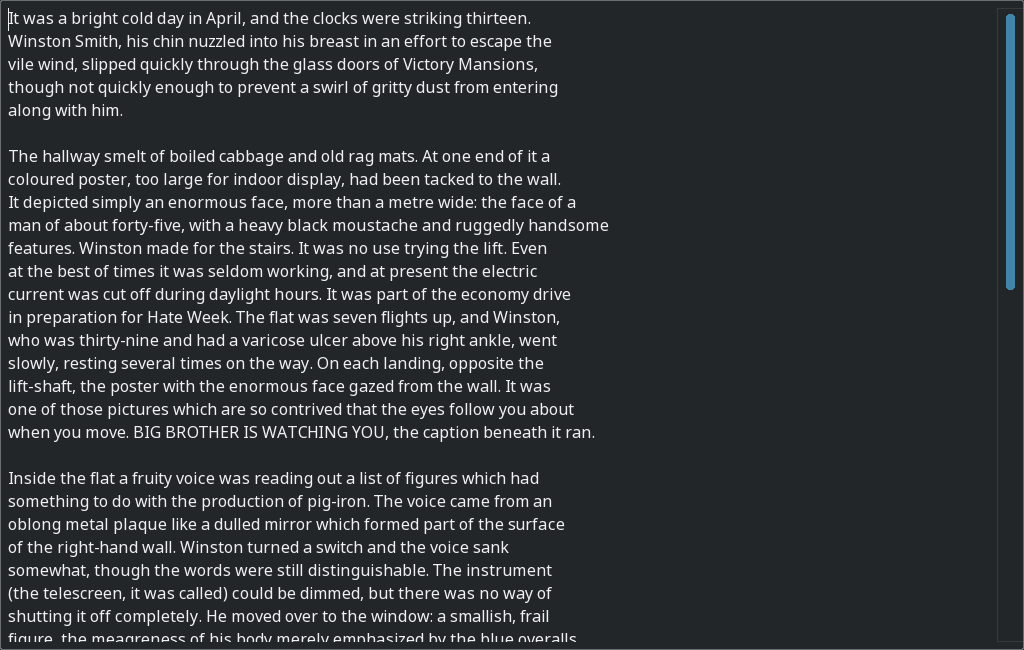
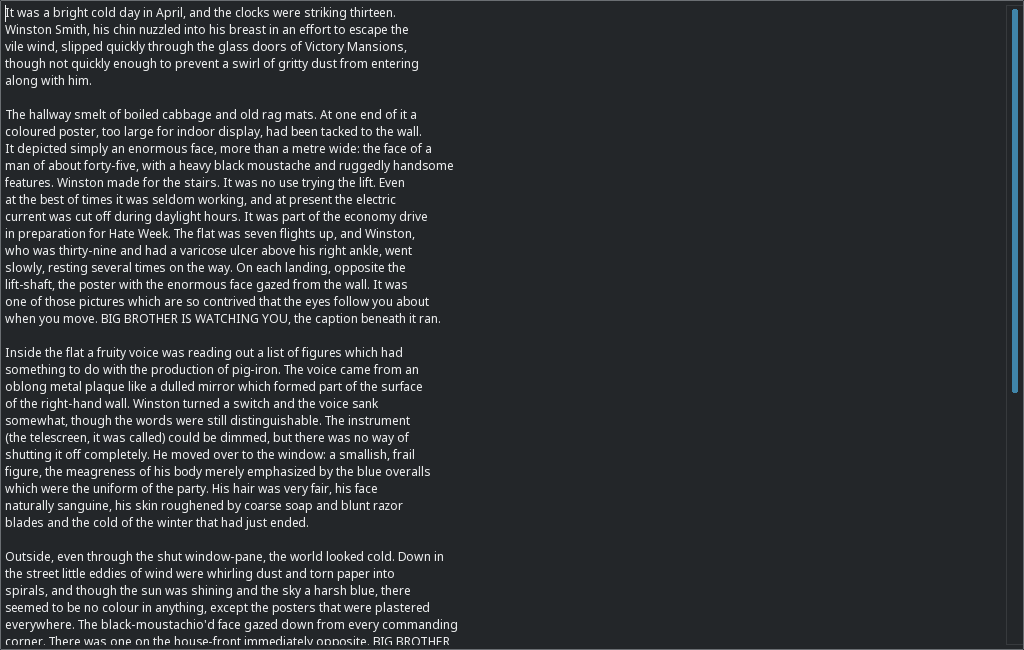
Fix font rendering tests pixel density.

Changed region(s): [[0.0, 0.0, 0.5938, 1.0], [0.9688, 0.0, 1.0, 0.6154]]

diff --git a/src/tests/unit_tests/fontrendering.cpp b/src/tests/unit_tests/fontrendering.cpp
@@ -191,7 +191,7 @@ UTEST( FontRendering, editorTest ) {
 		UIApplication app(
 			WindowSettings( 1024, 650, "eepp - CodeEditor", WindowStyle::Default,
 							WindowBackend::Default, 32, {}, 1, false, true ),
-			UIApplication::Settings( Sys::getProcessPath() + ".." + FileSystem::getOSSlash() ) );
+			UIApplication::Settings( Sys::getProcessPath() + ".." + FileSystem::getOSSlash(), 1 ) );
 		FileSystem::changeWorkingDirectory( Sys::getProcessPath() );
 		UICodeEditor* editor = UICodeEditor::New();
 		editor->setPixelsSize( app.getUI()->getPixelsSize() );
@@ -216,7 +216,7 @@ UTEST( FontRendering, textEditTest ) {
 		UIApplication app(
 			WindowSettings( 1024, 650, "eepp - TextEdit", WindowStyle::Default,
 							WindowBackend::Default, 32, {}, 1, false, true ),
-			UIApplication::Settings( Sys::getProcessPath() + ".." + FileSystem::getOSSlash() ) );
+			UIApplication::Settings( Sys::getProcessPath() + ".." + FileSystem::getOSSlash(), 1 ) );
 		FileSystem::changeWorkingDirectory( Sys::getProcessPath() );
 		UITextEdit* editor = UITextEdit::New();
 		editor->setPixelsSize( app.getUI()->getPixelsSize() );
